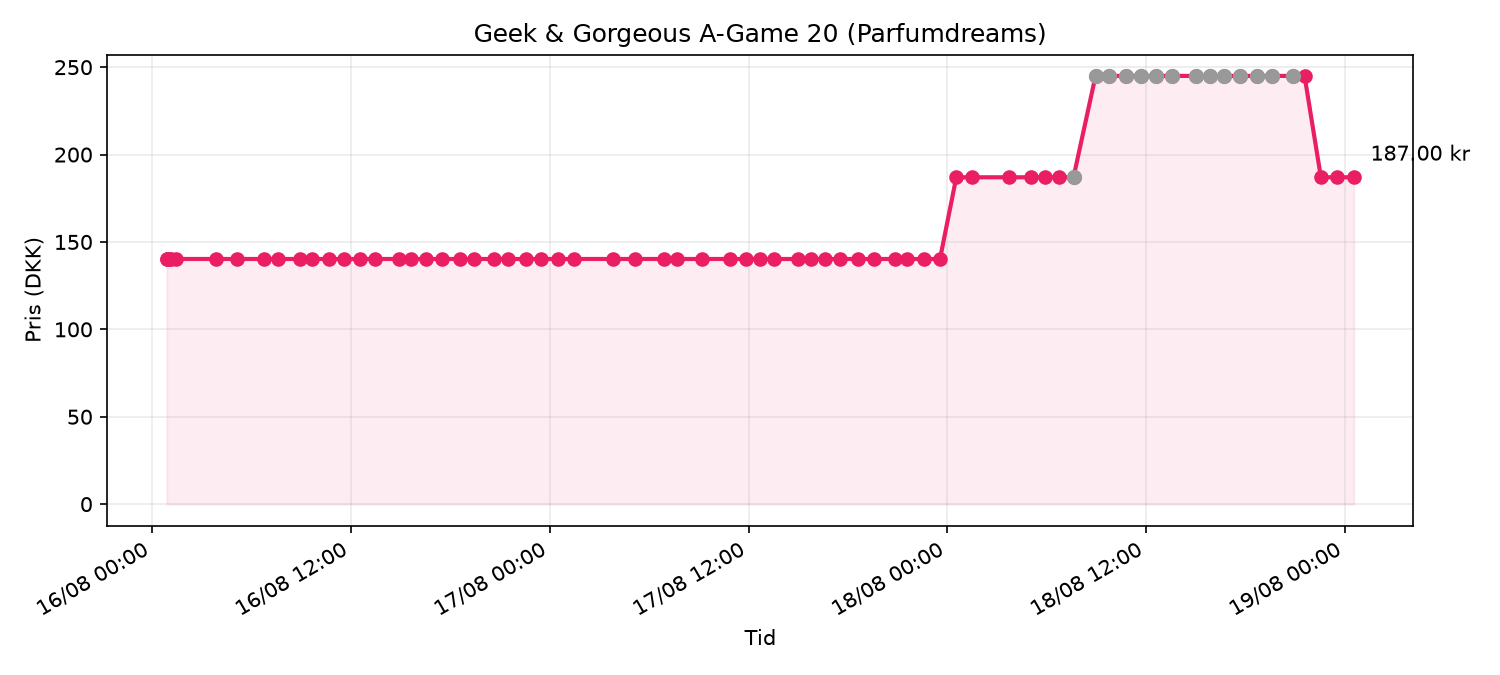
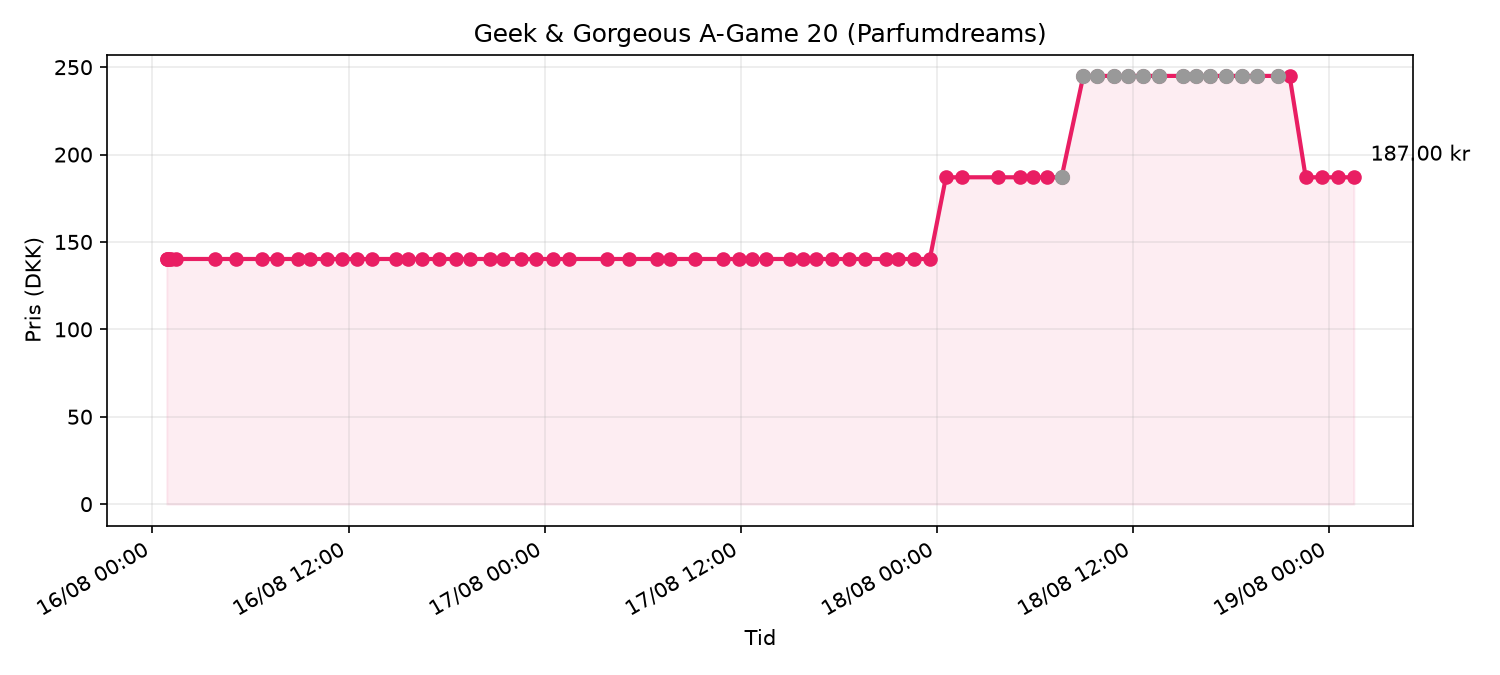
deploy: 410709e01d5df30964844eb61888ed57d7a7e7b4

diff --git a/price_chart.html b/price_chart.html
@@ -13,7 +13,7 @@
 </head>
 <body>
   <h1>Geek & Gorgeous A-Game 20 (Parfumdreams)</h1>
-  <p class="meta">Senest tjekket: 19/08/2026 00:32 · Pris: <strong>187.00 kr</strong> · på lager</p>
+  <p class="meta">Senest tjekket: 19/08/2026 01:29 · Pris: <strong>187.00 kr</strong> · på lager</p>
   
   <p><a href="https://www.parfumdreams.dk/Geek-Gorgeous/Samlinger/101-aktive-stoffer/A-Game-20-Serum/index_137083.aspx?variation=221879">Åbn produkt på Parfumdreams</a></p>
   <img src="price_chart.png" alt="Prisgraf">
